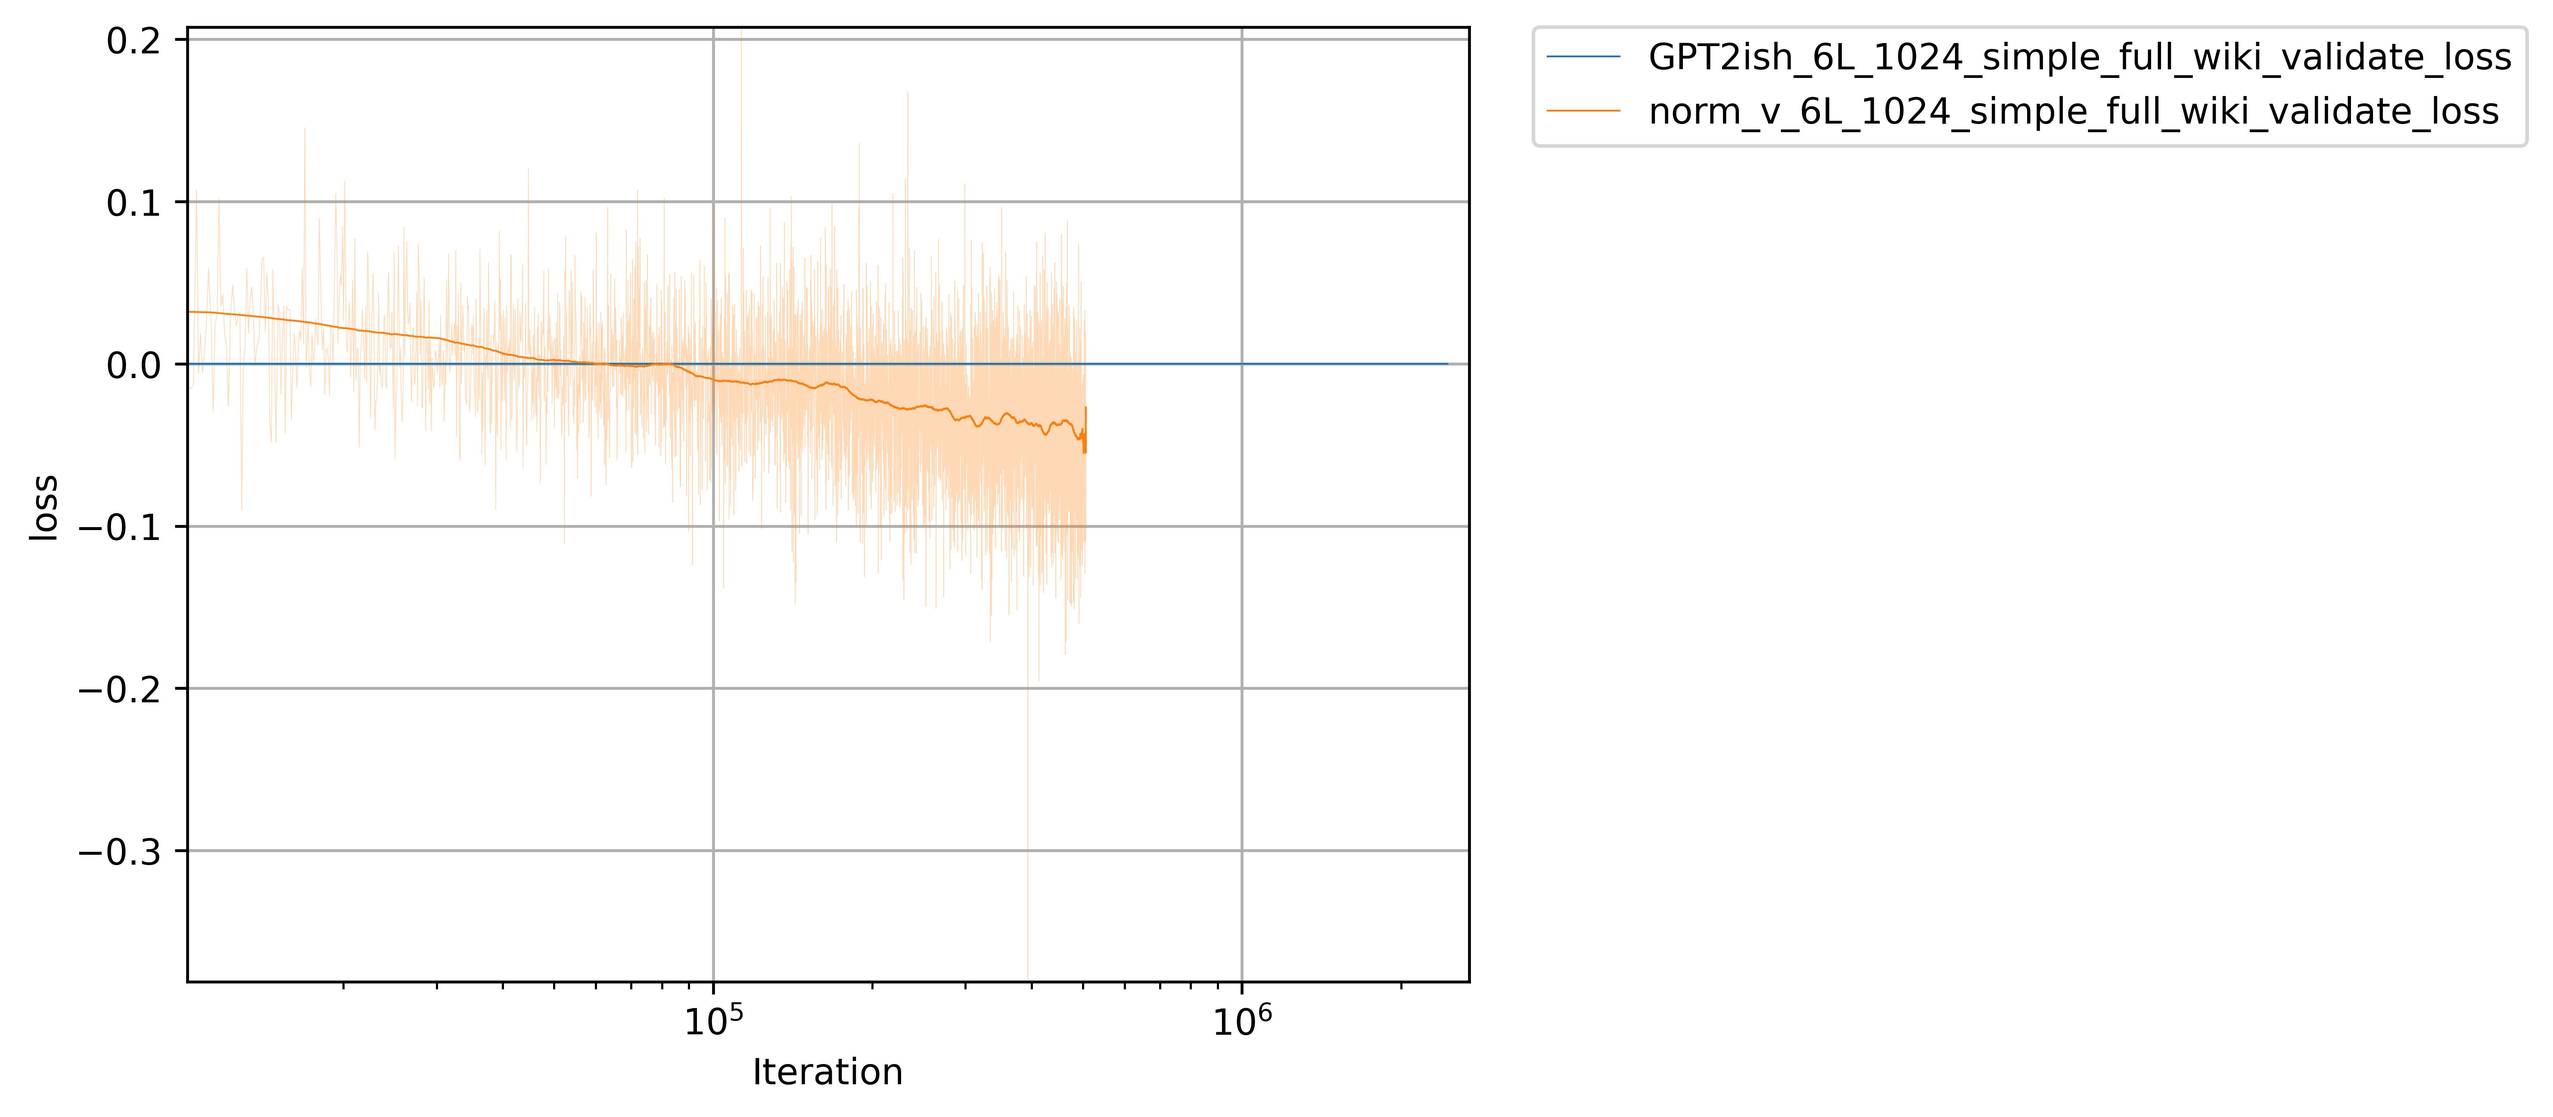
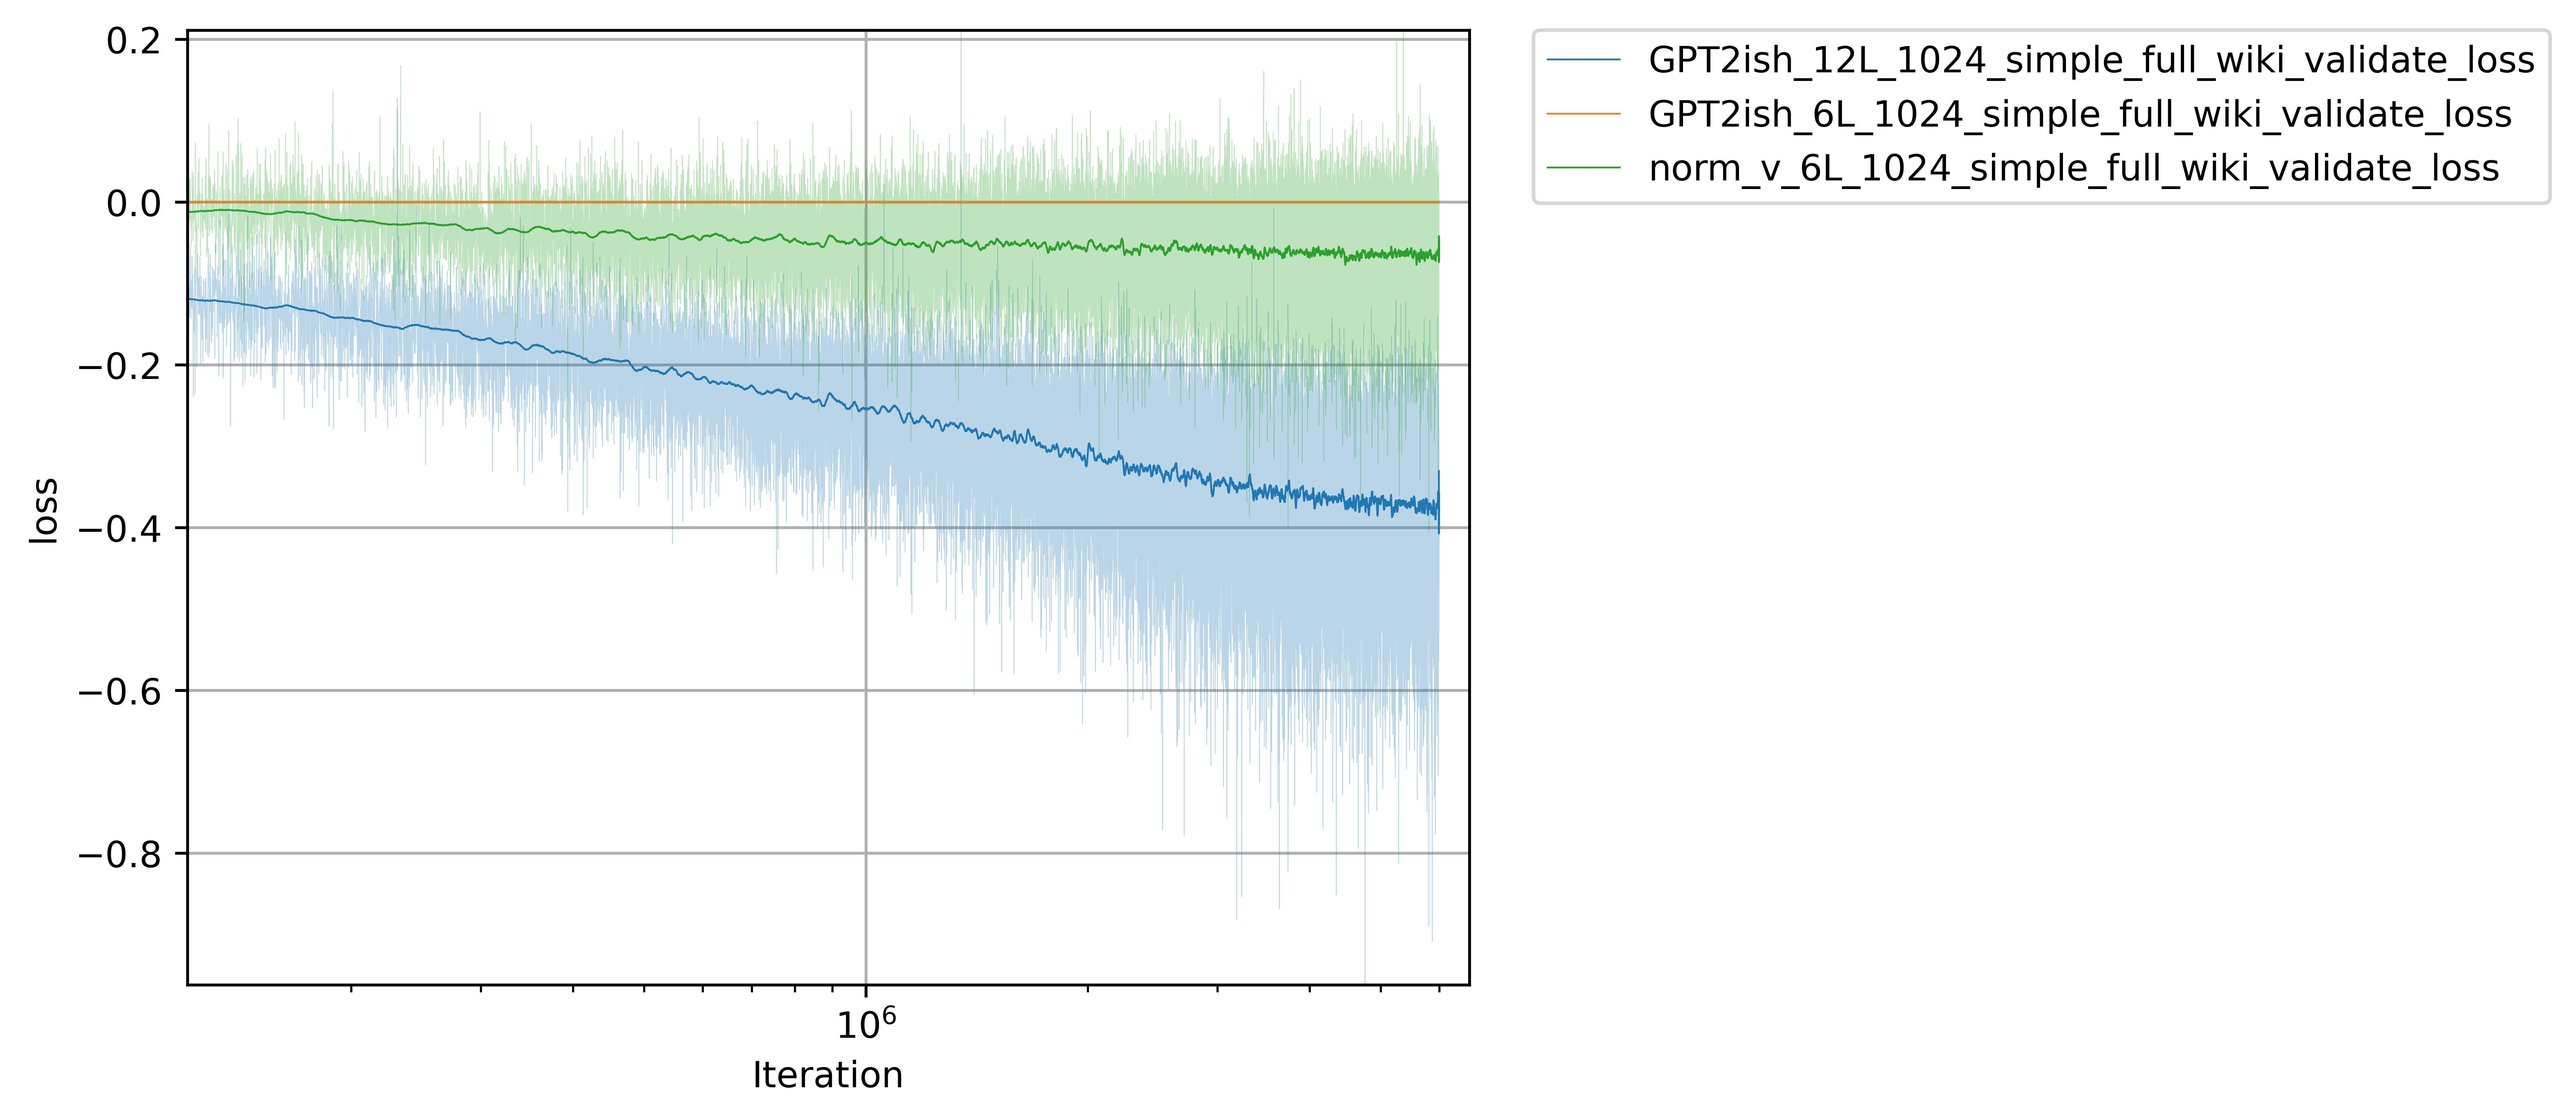
updated the readme and results.

diff --git a/lmplay/train/__main__.py b/lmplay/train/__main__.py
@@ -5,7 +5,6 @@ from lmplay.stats.modelstats import ModelStats
 import traceback
 from typing import Optional
 from tqdm import tqdm
-from lmplay.base.encoder.model import ModelRunner as BaseModelRunner
 from lmplay import MODEL_RUNNERS
 
 def render_pbar(ms: ModelStats) -> str:

diff --git a/README.md b/README.md
@@ -11,28 +11,72 @@ A note of caution here, because this is a playground the code here will likely c
 
 ## The experiments
 I have been playing with ideas 'on the side' for a while now and several show promise. The first one is something I call 'Unified Embeddings'.
-### Experiment 1: (8x) Unified Embeddings (lmp_trainer --exp ue8x)
-Unified Embeddings provide a better way to train embeddings with no additional inference costs or model structure changes however there is a training memory penalty.
-The basic idea is to use a very large training embedding and run it through a ff layer to generate the output embedding during training. 
-For production inference all vocab embeddings should be pre-generated and stored and the embedding training weights can be tossed. The model will do this with the 'for_prod=True' parameter set. Similarly, if an existing well trained model is modified to replace normal embeddings with a unified embedding class then on weigth load it will train a set of training embeddings to then learn from. In testing, with the right control of learning rate, a model can switch to unfied embeddings quickly and start getting gains but in general it is best to start training with them instead of 'bolting them on' after. 
-The limited testing I have done so far looks quite promising
-### Experiment 1.1: Large (16x) Unified Embeddings with mixed CPU/GPU training (lmp_trainer --exp ue16x)
-This is the same basic code as the first UE experiment but the training embeddings are twice as large at 16x the hidden size. This increase in size makes training a challenge if embeddings are left on the GPU. To overcome this the training embeddings are left on the CPU along with the first integration layer. This allows a minimum memory transfer on each training sample. With larger mini-batch sizes the performance hit is about 50%, which isn't great, but is acceptable. If you have the GPU memory to spare just keep them in memory. The lesson from this test is that larger is better. I haven't found the upper bound yet.
+### Experiment 1: Unified Embeddings (lmp_trainer --amp --device cuda --exp ue8x/ lmp_trainer  --amp --device cuda --exp ue16x)
+#### TL/DR some UE results
 ![](results/ue_log_loss.jpg)
-This graph shows a 6 layer UE model beating a 12 layer baseline model, at least in initial training. The long term benefits are still unknown but these results are promising. The 6 layer UE model here has exactly the same prod inference costs/structure/weights/etc as a baseline 6 layer GPTish model. Only during training does it need extra logic/parameters. Additionally, the larger the UE the better. UE at 16x 1_1 is clearly beating UE 1_0 at 8x.
+This graph shows a 6 layer UE model beating a 12 layer baseline model, at least in initial training. The long term benefits are still unknown but these results are promising. The 6 layer UE model here has exactly the same prod inference costs/structure/weights/etc as a baseline 6 layer GPTish model. Only during training does it need extra logic/parameters. Additionally, the larger the UE the better. UE at 16x 1_1 is clearly beating UE 1_0 at 8x. and UEs with more layers maintain solid gains as well.
 The diff plot shows performance better:
 ![](results/ue_log_diff_loss.jpg)
-Here you can clearly see how much better the 6 layer UE models are over the 6 and 12 layer baseline models. It is still gaining ground on the 6 and even the 12 layer looks like the gap may be widening. Additionally, it is easy to see how much better the UE 1_1 is. Clearly, longer runs are needed, but the results appear to be getting better as time goes on. I will update this plot as runs continue.
-### Experiment 2: Value Norm (lmp_trainer --exp normv)
+Here you can clearly see how much better the 6 layer UE models are over the 6 and 12 layer baseline models. It is still gaining ground on the 6 and even the 12 layer looks like the gap may be widening. Additionally, it is easy to see how much better the UE 1_1 is. Saturation hasn't hit for any of the models so longer training is needed but initial training against a moderate dataset (all of wikipedia) clearly shows large gains.
+
+#### UE Overview
+Unified Embeddings provide a better way to train embeddings with no additional inference costs or model structure changes however there is a training memory penalty.
+The basic idea is to use a very large training embedding and run it through a ff layer to generate the output embedding during training. 
+For production inference all vocab embeddings should be pre-generated and stored and the embedding training weights can be tossed. The model will do this with the 'for_prod=True' parameter set. Similarly, if an existing well trained model is modified to replace normal embeddings with a unified embedding class then on weight load it will train a set of training embeddings to then learn from. In testing, with the right control of learning rate, a model can switch to unfied embeddings quickly and start getting gains but in general it is best to start training with them instead of 'bolting them on' after. 
+The limited testing I have done so far looks quite promising. So far all training shows this approach is far superior to normal embeddings but some interesting findings have come out:
+- Larger is better but more layers can use larger embeddings more than small ones - I tested 8x and 16x sizes and the 16x UEs were superior in the test 6L model at all times however, as training progressed it appeared that the gap between 8x and 16x closed. When the same tests were done with 12 layer modes the gap did not close. 
+- 'bolt on' logic appears to be effective but overfit happens exceptionally quick - In limited testing with a modified TinyLlama checkpoint, the v1.0 'bolt on' logic allowed the model to train with UEs quickly and to catch up to an unmodified model with just a few thousand examples. However, when multiple training epochs were used the UE modified model overfit immediately on the second epoch and started to quickly loose any advantage. This was an extremely limited test and I haven't published the results so take this with a grain of salt but it is promising that there may be a path to adding UEs to existing models to get a training boost. Of course just training with them from the start is clearly the best option. I hope to further test with TinyLlama and show a version trained against a larger dataset that clearly outperforms the baseline. When that happens I will post the results.
+
+#### UE 1.1
+UE 1.1 is identical to 1.0 but maintains the training embeddings and first integration linear on CPU to save memory. This allows for exceptionally large training embeddings with a reasonable performance hit. Performance impacts are mitigated by pooling the embedding lookup for the entire batch then doing the first integration on it and only then tranferring the result to the GPU so it can scatter them back to re-create the full batch sequence. This significantly reduces the memory transfer and compute costs especially as batch size grows. Other performance approaches could be taken like embedding caching on the GPU but for the purposes of these initial tests this CPU offload is sufficient to allow testing larger training embeddings. In testing with a batch size of 25 the performance hit was about 40% on a 16x embedding which isn't great, but for the memory saved it was totally worth it.
+
+#### UE 2.0
+I built a 2.0, it isn't as good. It is in there to remind me of my failures. Take a look! When you run it you will initially think it is great, but then very quickly it starts to lag behind v1.0.
+
+### Experiment 2: Value Norm (lmp_trainer --amp --device cuda --exp normv)
+#### TL/DR sme norm v results
+![](results/nv_log_diff_loss.jpg)
+This clearly shows a reasonable gain that adding layernorm to the value projection provides. The 12 layer baseline is shown to give an idea of the scale of the improvement. It isn't huge, but it is nearly free in compute/memory cost.
+
+#### Norm V overview
 Attn is amazing, but there may be simple improvements that can make it even better. One area to consider is the value projection. The value projection applies to all elements of a sequence and softmax sums them all together depending on how k&q rank them in order to get the final value. 
 The value projection has a hard job, it not only needs to create a useful value but it needs to avoid making uninteresting values accidentally large which would negate the ranking that the k&q came up with. There is a simple way to take this side-job away from the v projection, use LayerNorm. Now the v projection can focus on emphasizing important value aspects of the sequence and not accidentally destroy the ranking.
 
-At least that is the theory/idea that led me to test it. The results are pretty clear though. While not as large an impact as UEs, adding a simple layer norm is an almost no cost change to multi-head attn and it looks like it provides solid value, at least in early training. Adding layer norm to k or q however appears to have a negative impact (not shown) but more testing may find ways to improve those too.
-![](results/nv_log_diff_loss.jpg)
+At least that is the theory/idea that led me to test it. The results are pretty clear though. While not as large an impact as UEs, adding a simple layer norm is an almost no cost change to multi-head attn and it looks like it provides solid value, at least in early training. Adding layer norm to k or q however appears to have a negative impact (not shown).
+
+### Experiment 3: Unified Weights
+#### TL/DR sme norm v results
+![](results/uw_log_diff_loss.jpg)
+This graph shows the impact of UWs. While not as large a gain as UEs, it is clearly significant. 
+#### UW overview
+UWs are part of a theme. Predicting parameters at training to get better/faster results and then converting a model for prod inference to save memory/compute. Like UEs, UWs only have costs during training and can be re-saved to have the exact same costs/structure/etc as a normal set of weights. However, UWs (at least v1.0) have very little addition training memory/compute requirements. Additionally, they can be bolted onto an existing model without a 'training' step. I haven't bolted them onto a well trained model yet so it is just speculation now but I should have some results soon showing this approach.
+
+So, what is the idea behind them? When thinking about a linear layer I realized that often an output just needs to be bigger. For that behavior to be learned the weights have to increase all parameter values evenly, but gradient updates don't provide a simple one stop parameter to do this. To get around this I created three extra parameters, the 'mbias', the 'mbias_bias' and the 'bias_bias'. With these new parameters in place the code inside of a linear now looks like:
+```
+  def __init__(...)
+    ...
+    self.weight = nn.Parameter(torch.empty((out_features, in_features), **factory_kwargs))
+    self.bias = nn.Parameter(torch.empty(out_features, **factory_kwargs))
+    self.mbias = nn.Parameter(torch.ones(out_features, **factory_kwargs))
+    self.mbias_bias = nn.Parameter(torch.zeros(1, **factory_kwargs))
+    self.bias_bias = nn.Parameter(torch.zeros(1, **factory_kwargs))
+    ...
+    
+  def forward(self, input: torch.Tensor) -> torch.Tensor:
+    result = F.linear(input, self.weight, None)
+    result = result * (self.mbias + self.mbias_bias) + (self.bias + self.bias_bias)
+```
+Clearly this is equivalent to a standard linear layer right? Yes, technically, but now we have some simple parameters for gradients to easily act on that unifi all parameters in the linear layer. The main weights now can completely focus on deviations from 0 since the mbias weights allow them to normalize. Taking the idea slightly further I aded the 'mbias_bias' and 'bias_bias' to allow the bias and mbias to also focus on just the deviations from zero. In the end the only weights that may need to go to extremes here are the mbias_bias and the bias_bias. All other weight should be able to stay close to 0 with little effort. I haven't tried it yet but this new Linear formulation should be especially well suited to weight decay so long as the mbias_bias and the bias_bias are excluded from that. 
+
+#### UW 2.0
+I built a 2.0 version. It takes the meta idea further and predicts the bias instead of adding the mbias. It works but is very expensive. I suspect there is a lot that can be done here to improve on this idea but for now I don't intend to pursue it further.  
 ## Future experiments
 I am slowly 'cleaning up' many projects that I have been working on and intend to release them as I have longer training runs on them. I am currently limited to my one 3060 so even these limited runs take several days each. In fact, one epoch on the dataset in use will take roughly 10 days per model to complete. 
 
 I picked UEs and value norm first since they are very easy to understand and implement. I am planning on releasing one every couple weeks for the next couple months.
+
+## Experiment details
+Unless otherwise stated experiments are run using the Adagrad optimizer with a batch size of 50, fixed lr of 0.0006 and no weight decay. Training is all done single GPU with --amp enabled. Mini-batch sizes are generally either 4, 10 or 25 depending on the GPU available and the test being run but quick tests show no significant deviation in results with different mini-batch sizes. --amp does have a minor, but noticable, impact but the performance gains make it a requirement and the impacts are much smaller than the gap between experiment results and baseline results. The data set is a two stage curriculum consisting of the 'simple' wikipedia dataset followed by the full 'en' dataset (https://huggingface.co/datasets/wikipedia, https://dumps.wikimedia.org). Both are re-split with a fixed seed to create train/validate datasets. I did not dig to figure out if the simple dataset had crossover with the full dataset so there may be contamination however, all models, including the baselines, have had the exact same train/validation splits so if there is contamination it shouldn't have a preferential effect on the experiments.   
 
 ## GPT2ish (lmp_trainer --exp gpt2ish)
 The baseline encoder I am using as the reference model is based on GPT2. Any flaws in it are my own and you shouldn't take this as reference code for a GPT2 implementation.
